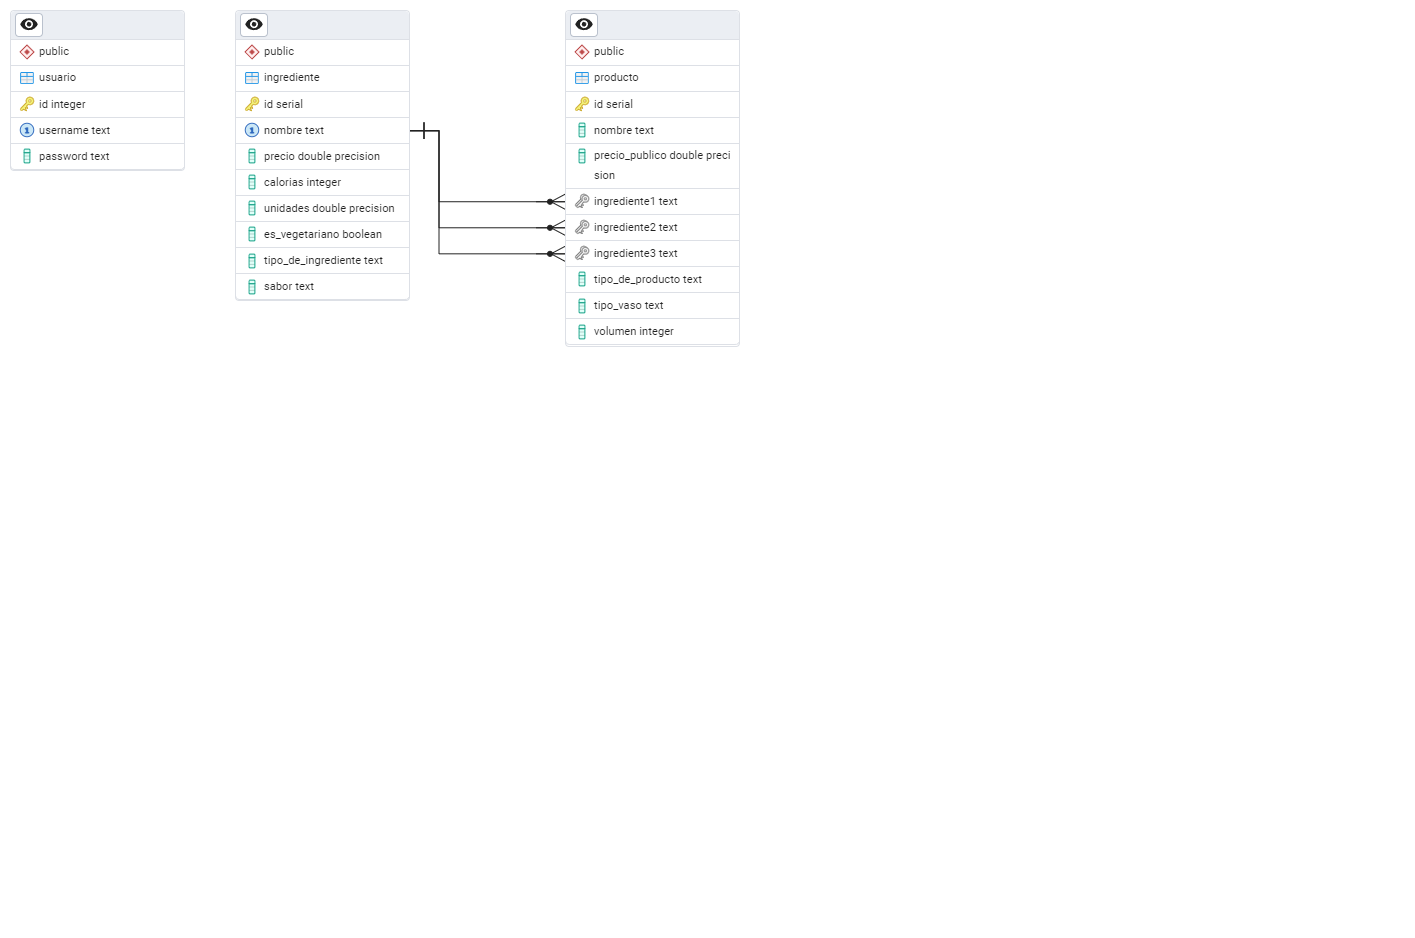
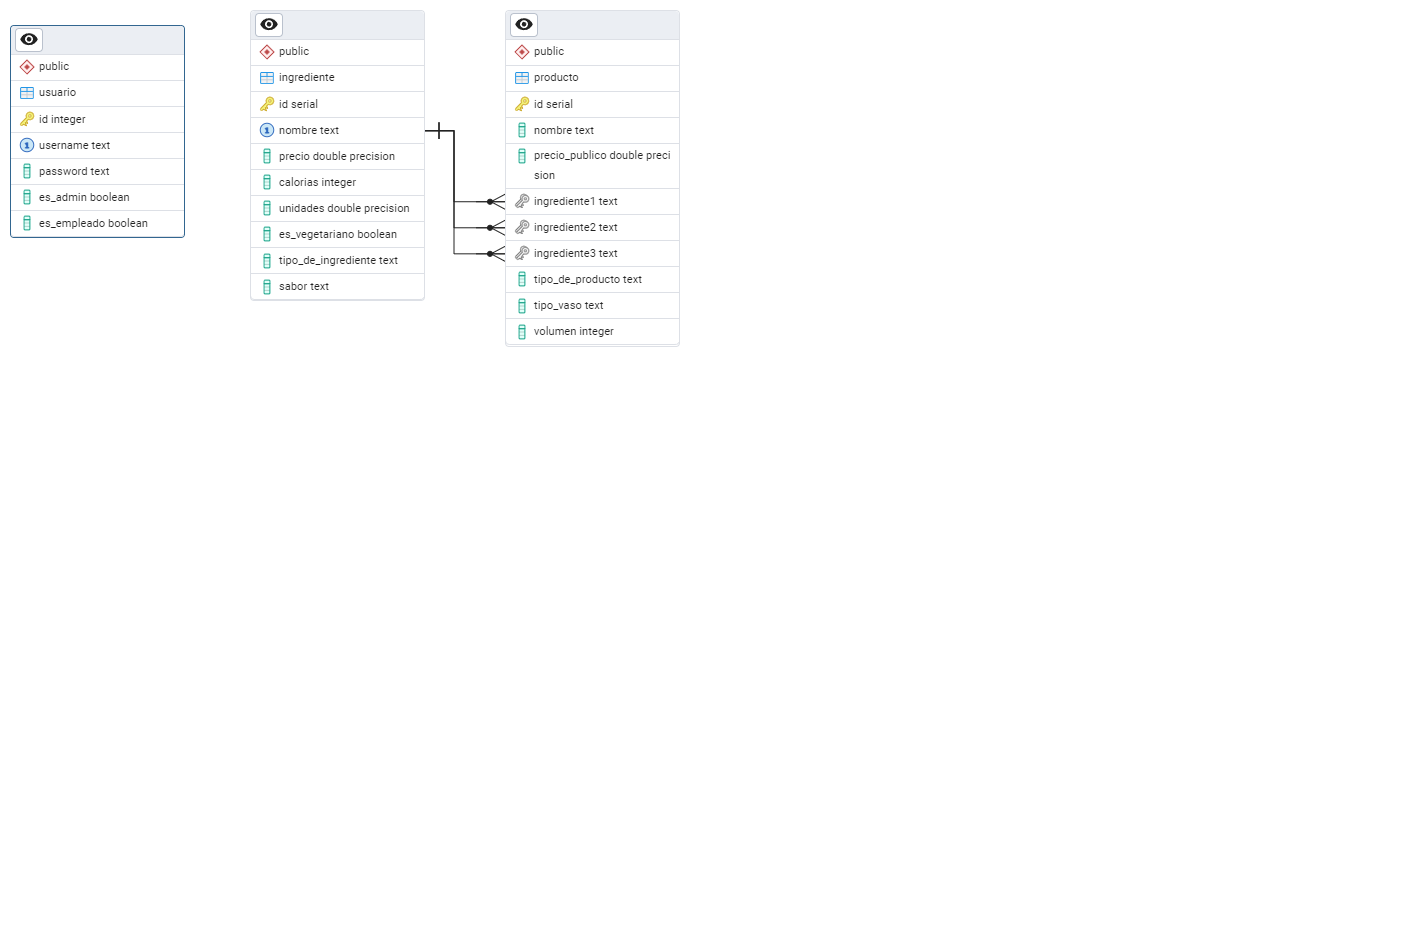
endpoints y autorizacion ok

Changed region(s): [[0.342, 0.0, 0.5286, 0.371], [0.1555, 0.0, 0.311, 0.3092], [0.0, 0.0, 0.1244, 0.2473]]

diff --git a/views/index.html b/views/index.html
@@ -16,7 +16,7 @@
         </ul>
 
         <a href="/login">
-            <button class="primary">Entrar a detalles de la Heladeria</button>
+            <button class="primary">Autenticar</button>
         </a> 
     </section>
 

diff --git a/crear_filas_iniciales.py b/crear_filas_iniciales.py
@@ -4,6 +4,7 @@ from models.Complemento import Complemento
 from models.Base import Base
 from models.Copa import Copa
 from models.Malteada import Malteada
+from models.Usuario_db import Usuario
 
 def crear_filas(db):
     if db.session.query(Ingrediente).count() == 0:
@@ -61,9 +62,9 @@ def crear_filas(db):
             if isinstance(producto, Copa):
                 productos_a_agregar.append(Producto(nombre = producto.nombre, 
                             precio_publico = producto.precio_publico, 
-                            ingrediente1 = producto.ingredientes[0].nombre, 
-                            ingrediente2 = producto.ingredientes[1].nombre, 
-                            ingrediente3 = producto.ingredientes[2].nombre, 
+                            ingrediente1 = producto.ingredientes[0].nombre,
+                            ingrediente2 = producto.ingredientes[1].nombre,
+                            ingrediente3 = producto.ingredientes[2].nombre,
                             tipo_de_producto = 'Copa', 
                             tipo_vaso = producto.tipo_vaso
                             ))
@@ -76,8 +77,45 @@ def crear_filas(db):
                             tipo_de_producto = 'Malteada',
                             volumen = producto.volumen))
 
+        #usuarios
+        usuarios_a_agregar = []
+        usuarios_a_agregar.append(Usuario(username = 'admin',
+                                          password = 'admin1',
+                                          es_admin = True,
+                                          es_empleado = False))
+        usuarios_a_agregar.append(Usuario(username = 'empleado',
+                                          password = 'empleado1',
+                                          es_admin = False,
+                                          es_empleado = True))
+        usuarios_a_agregar.append(Usuario(username = 'cliente',
+                                          password = 'cliente1',
+                                          es_admin = False,
+                                          es_empleado = False))
+
         db.session.add_all(ingredientes_a_agregar)
         db.session.add_all(productos_a_agregar)
+        db.session.add_all(usuarios_a_agregar)
         db.session.commit()
     else:
          print('>>Datos iniciales ya agregados en la base de datos.')
+    
+    if db.session.query(Usuario).count() == 0:
+    #usuarios
+        usuarios_a_agregar = []
+        usuarios_a_agregar.append(Usuario(username = 'admin',
+                                          password = 'admin1',
+                                          es_admin = True,
+                                          es_empleado = False))
+        usuarios_a_agregar.append(Usuario(username = 'empleado',
+                                          password = 'empleado1',
+                                          es_admin = False,
+                                          es_empleado = True))
+        usuarios_a_agregar.append(Usuario(username = 'cliente',
+                                          password = 'cliente1',
+                                          es_admin = False,
+                                          es_empleado = False))
+
+        db.session.add_all(usuarios_a_agregar)
+        db.session.commit()
+    else:
+        print('>>Usuarios ya agregados en la base de datos.')

diff --git a/controllers/auth_controller.py b/controllers/auth_controller.py
@@ -1,4 +1,4 @@
-from flask import Blueprint, redirect, request, flash
+from flask import Blueprint, redirect, request, flash, url_for
 from flask_login import login_user, logout_user
 from models.Usuario_db import Usuario
 
@@ -12,10 +12,10 @@ def auth_controller():
 
     if user and user.password == contrasena:
         login_user(user)
-        return redirect('/login')
+        return redirect(url_for('login.login_controller'))
     else:
         flash('Contraseña o usuario incorrecto.', 'error')
-        return redirect('/login')
+        return redirect(url_for('login.login_controller'))
 
 logout_blueprint = Blueprint('logout', __name__, url_prefix = '/login/logout')
 @logout_blueprint.route('/', methods=['POST'])
@@ -23,4 +23,4 @@ def logout_controller():
     '''Endpoint para cerrar sesion'''
     logout_user()
     flash('Usuario deslogueado.', 'exito')
-    return redirect('/login')
+    return redirect(url_for('login.login_controller'))

diff --git a/app.py b/app.py
@@ -1,4 +1,4 @@
-from flask import Flask
+from flask import Flask, jsonify
 from flask_login import LoginManager
 from config.config import Config
 from config.db import db
@@ -18,6 +18,10 @@ register_routes(app)
 def load_user(user: int):
     '''Carga el usuario en el login_manager'''
     return Usuario.query.get(user)
+
+@login_manager.unauthorized_handler
+def no_autenticado():
+    return jsonify({"error": 'No autorizado'}), 401
 
 with app.app_context():
     db.create_all()

diff --git a/models/Usuario_db.py b/models/Usuario_db.py
@@ -4,7 +4,7 @@ from config.db import db
 
 class Usuario(db.Model, UserMixin):
     '''Modelo db de Usuario'''
-    id = db.Column(db.Integer, primary_key = True, default = str(uuid.uuid4))
+    id = db.Column(db.Text, primary_key = True, default = lambda: str(uuid.uuid4()))
     username = db.Column(db.Text, unique = True, nullable = False)
     password = db.Column(db.Text, nullable = False)
     es_admin = db.Column(db.Boolean, nullable = True)
